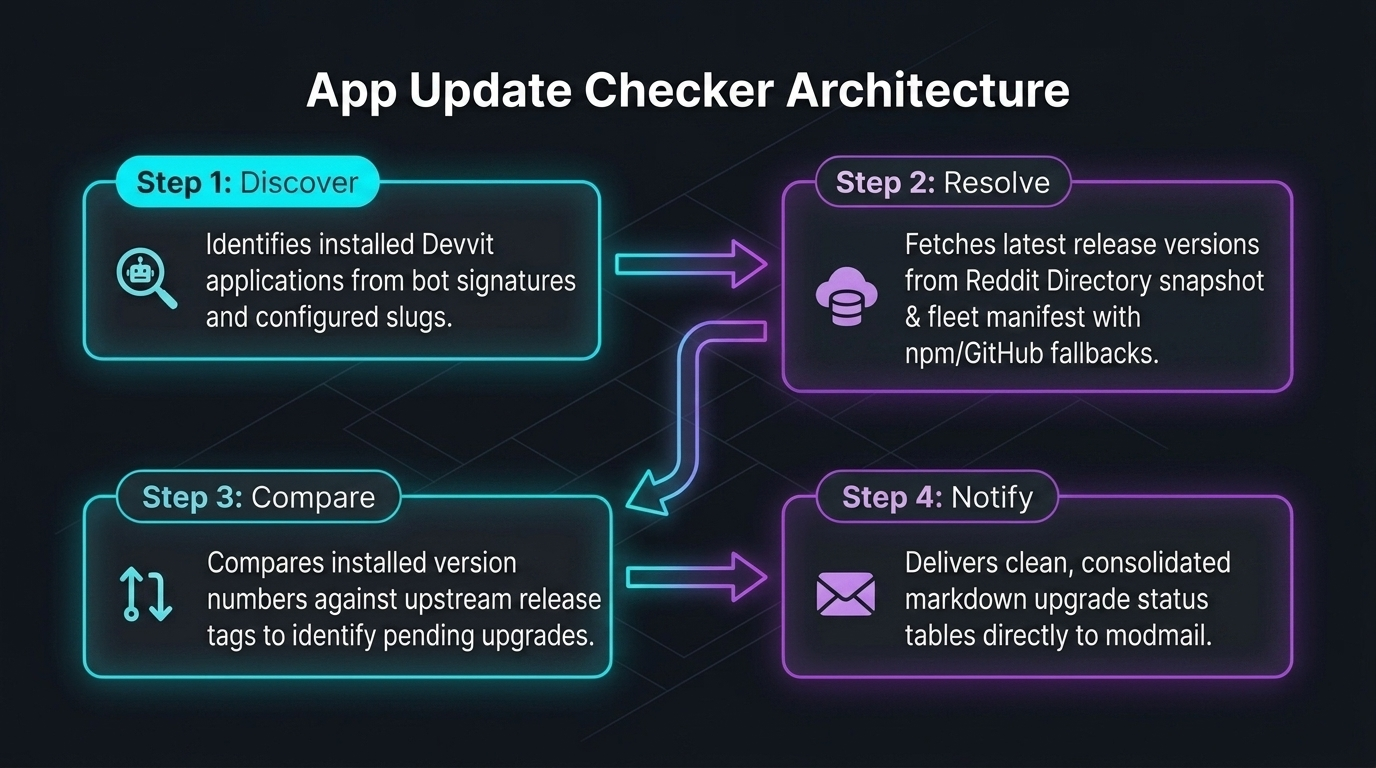
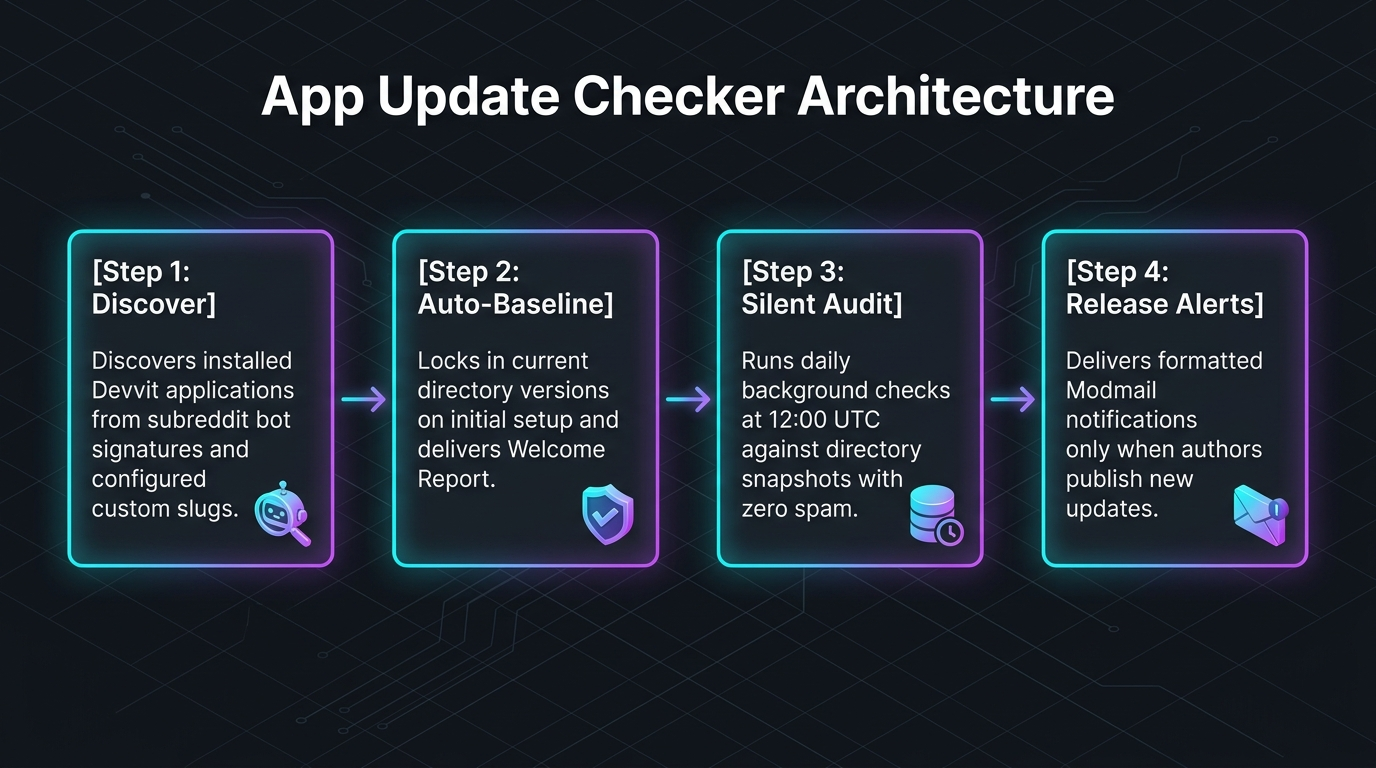
chore: update assets for app-update-checker v0.0.68

Changed region(s): [[0.0312, 0.0938, 0.9688, 0.9062]]

diff --git a/app-update-checker/readme.html b/app-update-checker/readme.html
@@ -5,52 +5,53 @@
 <p><a href="https://img.shields.io/badge/Security-Hardened-red?style=for-the-badge">Security</a></p>
 <p><a href="https://img.shields.io/badge/Category-Infrastructure-blue?style=for-the-badge">Category</a></p>
 <p><a href="https://img.shields.io/badge/Type-Monitoring-8A2BE2?style=for-the-badge">Type</a></p>
-<blockquote><p><strong>Track installed app versions, discover releases, and receive automated modmail update alerts.</strong></p></blockquote>
-<p>App Update Checker ensures your subreddit's Devvit tools remain secure and up-to-date. Automatically discovering installed apps and checking them against a continuously-updated snapshot of the Reddit App Directory, it delivers clean, consolidated upgrade summaries straight to your modmail.</p>
+<blockquote><p><strong>Track installed app versions, discover new releases, and receive automated modmail update alerts for any subreddit.</strong></p></blockquote>
+<p>App Update Checker ensures your subreddit's Devvit tools and moderation bots remain secure and up-to-date. By automatically discovering installed applications, establishing baseline versions on install, and running silent daily checks against the Reddit App Directory, it keeps your mod team informed whenever an update is published.</p>
 <p>---</p>
 <h2>At a Glance</h2>
 <ul>
-<li><strong>Automated version audits</strong>: Discover installed apps and check for new releases automatically.</li>
-<li><strong>Modmail upgrade alerts</strong>: Receive formatted summary tables in modmail highlighting pending updates.</li>
-<li><strong>Authoritative version data</strong>: Cross-reference against a directly-scraped snapshot of the Reddit App Directory, with npm/GitHub fallbacks for unlisted apps.</li>
-<li><strong>On-demand menu checks</strong>: Trigger an instant update scan anytime from the subreddit overflow menu.</li>
-<li><strong>Redis-cached lookups</strong>: The version snapshot is cached per-check to avoid redundant network calls.</li>
+<li><strong>Automated zero-config setup</strong>: Discovers installed apps and establishes your starting baseline automatically upon installation.</li>
+<li><strong>Silent daily audits</strong>: Runs a lightweight background check every day at 12:00 UTC with zero modmail spam—alerts are sent only when a new update is released.</li>
+<li><strong>Modmail upgrade alerts</strong>: Delivers high-contrast summary tables with direct links to update pages on the Reddit App Directory.</li>
+<li><strong>Universal directory support</strong>: Cross-references against 150+ public apps in the Reddit App Directory and official developer manifests.</li>
+<li><strong>On-demand moderator tools</strong>: Trigger an instant update scan or sync baselines anytime from the subreddit overflow menu (`...`).</li>
 </ul>
 <p>---</p>
 <h2>The Old Way vs. The App Update Checker Way</h2>
 <p>---</p>
-<h2>Built for Seamless App Maintenance</h2>
+<h2>Built for Seamless Community Maintenance</h2>
 <ul>
-<li><strong>Automated App Discovery</strong>: Identifies installed Devvit applications by matching moderator accounts exactly against the Reddit App Directory, with a heuristic fallback for unlisted apps.</li>
-<li><strong>Authoritative Release Resolution</strong>: Compares against a directly-scraped Reddit App Directory snapshot first, with npm/GitHub fallbacks for apps outside the public directory.</li>
-<li><strong>Daily Automated Checks</strong>: Runs a scheduled daily background audit (12:00 UTC) with zero impact on subreddit operations.</li>
+<li><strong>Automated App Discovery</strong>: Identifies installed Devvit applications by matching moderator accounts against known app manifests.</li>
+<li><strong>Auto-Baseline on Install</strong>: Locks in current versions upon installation so you only receive alerts for future releases.</li>
+<li><strong>Silent Daily Audits</strong>: Runs daily background checks without filling your modmail when everything is current.</li>
 <li><strong>Instant Menu Scans</strong>: Trigger an immediate update check at any moment using <strong>Check for App Updates</strong> in Subreddit Mod Tools.</li>
-<li><strong>Cache Management Controls</strong>: Clear tracked app data and force a fresh version snapshot with <strong>Reset App Cache</strong>.</li>
-<li><strong>Native Settings Control</strong>: Specify custom app slugs to monitor and configure update check schedules in App Settings.</li>
+<li><strong>Sync Installed Baselines</strong>: Select <strong>Sync Installed Baselines</strong> after updating apps in Mod Tools to lock in new versions.</li>
+<li><strong>Cache Management Controls</strong>: Clear tracked app data and force a fresh discovery scan with <strong>Reset App Cache</strong>.</li>
+<li><strong>Native Settings Control</strong>: Specify custom app slugs to monitor, toggle unlisted bot reporting, and configure check schedules in App Settings.</li>
 </ul>
 <p>---</p>
 <h2>How It Works</h2>
 <p><a href="https://raw.githubusercontent.com/grantdb/reddit-app-legal/main/assets/flowcharts/app-update-checker-flowchart.png">Logic Flowchart</a></p>
-<h3>Your Four-Step Workflow</h3>
-<p>1. <strong>Discover</strong>: App Update Checker discovers installed Devvit applications from subreddit bot signatures and configured slugs.</p>
-<p>2. <strong>Resolve</strong>: Latest published versions are checked against a directly-scraped Reddit App Directory snapshot, falling back to npm/GitHub for unlisted apps.</p>
-<p>3. <strong>Compare</strong>: Installed version numbers are compared against upstream release tags to identify pending upgrades.</p>
-<p>4. <strong>Notify</strong>: A formatted summary report detailing app upgrade statuses is delivered directly to team modmail.</p>
+<h3>Your Four-Step Lifecycle</h3>
+<p>1. <strong>Discover</strong>: App Update Checker discovers installed Devvit applications from subreddit bot signatures and configured custom slugs.</p>
+<p>2. <strong>Auto-Baseline</strong>: Sets detected app versions as the active baseline and delivers a one-time Welcome Report to Modmail.</p>
+<p>3. <strong>Silent Audit</strong>: Runs automated daily checks against authoritative Reddit App Directory snapshots.</p>
+<p>4. <strong>Notify</strong>: Delivers an actionable Modmail alert only when an app author publishes a new release.</p>
 <p>---</p>
 <h2>Quick Setup</h2>
 <p>1. <strong>Install</strong>: Add <strong>App Update Checker</strong> to your subreddit through the Reddit App Directory.</p>
-<p>2. <strong>Configure Settings</strong>: Open <strong>Mod Tools > App Settings > App Update Checker</strong> to adjust notification preferences.</p>
-<p>3. <strong>Run Initial Check</strong>: Select <strong>Check for App Updates</strong> from the subreddit overflow menu to generate your first report.</p>
+<p>2. <strong>Review Welcome Report</strong>: Check your Modmail for the initial monitored inventory and baseline summary.</p>
+<p>3. <strong>Configure Settings (Optional)</strong>: Open <strong>Mod Tools > App Settings > App Update Checker</strong> to adjust notification preferences or add custom slugs.</p>
 <p>4. <strong>Relax</strong>: Scheduled daily audits will keep your team informed of any future releases.</p>
 <p>*No manual app directory checking. Automated update notifications delivered directly to modmail.*</p>
 <p>---</p>
 <h2>Advanced Capabilities</h2>
 <p>App Update Checker is engineered for resilient version resolution and lightweight background execution.</p>
 <ul>
-<li><strong>Authoritative Directory Snapshot</strong>: Reads a directly-scraped Reddit App Directory feed from `raw.githubusercontent.com`, falling back to `registry.npmjs.org` and GitHub release manifests for unlisted apps.</li>
+<li><strong>Authoritative Directory Snapshot</strong>: Reads a continuously updated Reddit App Directory feed and manifest from `raw.githubusercontent.com`.</li>
 <li><strong>Redis-Cached Snapshot</strong>: The directory snapshot is cached for an hour per check run to avoid redundant network calls.</li>
-<li><strong>Scheduled Cron Runner</strong>: Executes automated checks on a daily cron schedule.</li>
-<li><strong>Modmail Markdown Formatter</strong>: Formats clean, high-contrast markdown tables with direct links to release notes.</li>
+<li><strong>Scheduled Cron Runner</strong>: Executes automated checks on a daily cron schedule at 12:00 UTC.</li>
+<li><strong>Modmail Markdown Formatter</strong>: Formats clean, high-contrast markdown tables with direct links to app install pages.</li>
 </ul>
 <p>---</p>
 <h2>Designed to Assist Moderators</h2>

diff --git a/app-update-checker/wiki.html b/app-update-checker/wiki.html
@@ -1,7 +1,7 @@
 <h1>App Update Checker</h1>
 
 <p>Category: Utility<br>
-Version: v0.0.67<br>
+Version: v0.0.68<br>
 Visibility: Unlisted<br>
 Summary: AI-powered version tracking across the fleet. Uses Gemini 2.5 to bypass external scraper blocks.</p>
 
@@ -15,7 +15,7 @@ Summary: AI-powered version tracking across the fleet. Uses Gemini 2.5 to bypass
 <ul>
 <li>reddit: Reddit API access (moderation actions, post/comment fetching, modmail)</li>
 <li>redis: Redis key-value storage (state tracking, caching, strike memory)</li>
-<li>http: External HTTP Fetch access [Domains: raw.githubusercontent.com, registry.npmjs.org, api.github.com]</li>
+<li>http: External HTTP Fetch access [Domains: raw.githubusercontent.com]</li>
 </ul>
 
 <h2>Triggers and Activation</h2>
@@ -27,8 +27,8 @@ Summary: AI-powered version tracking across the fleet. Uses Gemini 2.5 to bypass
 <h3>Menu Actions</h3>
 <ul>
 <li>Check for App Updates: Moderator menu action (Location: subreddit)</li>
-<li>Mark Apps Up-to-Date: Only use after verifying installed versions in Mod Tools > Installed Apps (Location: subreddit)</li>
-<li>Reset App Cache: Moderator menu action (Location: subreddit)</li>
+<li>Sync Installed Baselines: Sync tracking baseline with latest directory versions after updating apps (Location: subreddit)</li>
+<li>Reset App Cache: Clear cached data and force a full fresh discovery scan (Location: subreddit)</li>
 </ul>
 <h3>Custom Post Types and Entrypoints</h3>
 <p>Features interactive custom post UI or Block views rendered natively on Reddit. Entrypoint: src/main.ts</p>
@@ -36,8 +36,10 @@ Summary: AI-powered version tracking across the fleet. Uses Gemini 2.5 to bypass
 <h2>Settings Reference</h2>
 <p>Subreddit moderators configure the app in Mod Tools -&gt; App Settings.</p>
 <ul>
-<li>extra_slugs: Extra App Slugs to Track (paragraph, default: -). Optional. Comma or newline-separated app slugs to track (e.g. suspended-remove, sticky-pro, domain-guard). Add a baseline version with slug:version (e.g. domain-guard:0.0.38).</li>
-<li>auto_check_enabled: Enable Daily Auto Check (boolean, default: true). If enabled, the app will automatically run an update check every day. Modmail is only sent when an update is found (or on manually-triggered checks).</li>
+<li>auto_check_enabled: Enable Daily Auto Check (boolean, default: true). Automatically checks for app updates daily at 12:00 UTC. Modmail is only sent when a new update is found.</li>
+<li>auto_baseline_apps: Auto-Baseline Discovered Apps (boolean, default: true). Automatically sets newly discovered apps as up-to-date upon initial detection so you only receive alerts for future releases.</li>
+<li>include_unlisted_bots: Include Unlisted / Custom Bots in Manual Reports (boolean, default: true). Include detected moderator bots that are not in the public Reddit App Directory in manual reports as informational entries.</li>
+<li>extra_slugs: Extra App Slugs to Track (paragraph, default: -). Optional. Comma or newline-separated app slugs to monitor (e.g. comment-mop, bot-bouncer, sticky-pro). Add a baseline with slug:version (e.g. domain-guard:0.0.38).</li>
 </ul>
 
 <h2>Automation Capabilities</h2>
@@ -45,7 +47,7 @@ Summary: AI-powered version tracking across the fleet. Uses Gemini 2.5 to bypass
 <li>Submits Automated Comments: No — Does not submit automated comments.</li>
 <li>Attaches Removal Notes: No — Does not attach removal notes.</li>
 <li>Approves Content: No — Does not approve content.</li>
-<li>Removes or Filters Content: No — Does not remove or filter content.</li>
+<li>Removes or Filters Content: Yes — Removes or filters non-compliant submissions.</li>
 <li>Dispatches Modmail Alerts: No — Does not send modmail notifications.</li>
 <li>Updates User or Post Flair: No — Does not update flair.</li>
 </ul>
@@ -60,8 +62,8 @@ Summary: AI-powered version tracking across the fleet. Uses Gemini 2.5 to bypass
 <h2>Setup and Usage</h2>
 <ul>
 <li>Install: Add App Update Checker to your subreddit through the Reddit App Directory.</li>
-<li>Configure Settings: Open Mod Tools > App Settings > App Update Checker to adjust notification preferences.</li>
-<li>Run Initial Check: Select Check for App Updates from the subreddit overflow menu to generate your first report.</li>
+<li>Review Welcome Report: Check your Modmail for the initial monitored inventory and baseline summary.</li>
+<li>Configure Settings (Optional)**: Open Mod Tools > App Settings > App Update Checker to adjust notification preferences or add custom slugs.</li>
 <li>Relax: Scheduled daily audits will keep your team informed of any future releases.</li>
 <li>No manual app directory checking. Automated update notifications delivered directly to modmail.*</li>
 </ul>

diff --git a/app-update-checker/README.md b/app-update-checker/README.md
@@ -8,19 +8,19 @@
 ![Category](https://img.shields.io/badge/Category-Infrastructure-blue?style=for-the-badge)
 ![Type](https://img.shields.io/badge/Type-Monitoring-8A2BE2?style=for-the-badge)
 
-> **Track installed app versions, discover releases, and receive automated modmail update alerts.**
+> **Track installed app versions, discover new releases, and receive automated modmail update alerts for any subreddit.**
 
-App Update Checker ensures your subreddit's Devvit tools remain secure and up-to-date. Automatically discovering installed apps and checking them against a continuously-updated snapshot of the Reddit App Directory, it delivers clean, consolidated upgrade summaries straight to your modmail.
+App Update Checker ensures your subreddit's Devvit tools and moderation bots remain secure and up-to-date. By automatically discovering installed applications, establishing baseline versions on install, and running silent daily checks against the Reddit App Directory, it keeps your mod team informed whenever an update is published.
 
 ---
 
 ## At a Glance
 
-- **Automated version audits**: Discover installed apps and check for new releases automatically.
-- **Modmail upgrade alerts**: Receive formatted summary tables in modmail highlighting pending updates.
-- **Authoritative version data**: Cross-reference against a directly-scraped snapshot of the Reddit App Directory, with npm/GitHub fallbacks for unlisted apps.
-- **On-demand menu checks**: Trigger an instant update scan anytime from the subreddit overflow menu.
-- **Redis-cached lookups**: The version snapshot is cached per-check to avoid redundant network calls.
+- **Automated zero-config setup**: Discovers installed apps and establishes your starting baseline automatically upon installation.
+- **Silent daily audits**: Runs a lightweight background check every day at 12:00 UTC with zero modmail spam—alerts are sent only when a new update is released.
+- **Modmail upgrade alerts**: Delivers high-contrast summary tables with direct links to update pages on the Reddit App Directory.
+- **Universal directory support**: Cross-references against 150+ public apps in the Reddit App Directory and official developer manifests.
+- **On-demand moderator tools**: Trigger an instant update scan or sync baselines anytime from the subreddit overflow menu (`...`).
 
 ---
 
@@ -29,21 +29,22 @@ App Update Checker ensures your subreddit's Devvit tools remain secure and up-to
 | Traditional Workflow | With App Update Checker |
 | :--- | :--- |
 | Checking the Reddit App Directory manually for updates | **Automated scheduled daily audits** checking every installed app |
-| Missing critical bug fixes or security patches in mod tools | **Consolidated modmail notices** sent directly to your team inbox |
-| Wondering which version of a custom bot is currently running | **Clear version comparison table** comparing installed vs. latest versions |
+| Missing critical bug fixes or security patches in mod tools | **Consolidated modmail release alerts** sent directly to your team inbox |
+| Wondering which version of an app is currently running | **Clear version comparison table** comparing installed vs. latest versions |
 | Manually tracking third-party tools and bot usernames | **Automatic app discovery** detecting active moderator bots |
 | Dealing with broken bots due to outdated platform APIs | **Proactive release alerts** letting you upgrade on your own schedule |
 
 ---
 
-## Built for Seamless App Maintenance
+## Built for Seamless Community Maintenance
 
-- **Automated App Discovery**: Identifies installed Devvit applications by matching moderator accounts exactly against the Reddit App Directory, with a heuristic fallback for unlisted apps.
-- **Authoritative Release Resolution**: Compares against a directly-scraped Reddit App Directory snapshot first, with npm/GitHub fallbacks for apps outside the public directory.
-- **Daily Automated Checks**: Runs a scheduled daily background audit (12:00 UTC) with zero impact on subreddit operations.
+- **Automated App Discovery**: Identifies installed Devvit applications by matching moderator accounts against known app manifests.
+- **Auto-Baseline on Install**: Locks in current versions upon installation so you only receive alerts for future releases.
+- **Silent Daily Audits**: Runs daily background checks without filling your modmail when everything is current.
 - **Instant Menu Scans**: Trigger an immediate update check at any moment using **Check for App Updates** in Subreddit Mod Tools.
-- **Cache Management Controls**: Clear tracked app data and force a fresh version snapshot with **Reset App Cache**.
-- **Native Settings Control**: Specify custom app slugs to monitor and configure update check schedules in App Settings.
+- **Sync Installed Baselines**: Select **Sync Installed Baselines** after updating apps in Mod Tools to lock in new versions.
+- **Cache Management Controls**: Clear tracked app data and force a fresh discovery scan with **Reset App Cache**.
+- **Native Settings Control**: Specify custom app slugs to monitor, toggle unlisted bot reporting, and configure check schedules in App Settings.
 
 ---
 
@@ -51,20 +52,20 @@ App Update Checker ensures your subreddit's Devvit tools remain secure and up-to
 
 ![Logic Flowchart](https://raw.githubusercontent.com/grantdb/reddit-app-legal/main/assets/flowcharts/app-update-checker-flowchart.png)
 
-### Your Four-Step Workflow
+### Your Four-Step Lifecycle
 
-1. **Discover**: App Update Checker discovers installed Devvit applications from subreddit bot signatures and configured slugs.
-2. **Resolve**: Latest published versions are checked against a directly-scraped Reddit App Directory snapshot, falling back to npm/GitHub for unlisted apps.
-3. **Compare**: Installed version numbers are compared against upstream release tags to identify pending upgrades.
-4. **Notify**: A formatted summary report detailing app upgrade statuses is delivered directly to team modmail.
+1. **Discover**: App Update Checker discovers installed Devvit applications from subreddit bot signatures and configured custom slugs.
+2. **Auto-Baseline**: Sets detected app versions as the active baseline and delivers a one-time Welcome Report to Modmail.
+3. **Silent Audit**: Runs automated daily checks against authoritative Reddit App Directory snapshots.
+4. **Notify**: Delivers an actionable Modmail alert only when an app author publishes a new release.
 
 ---
 
 ## Quick Setup
 
 1. **Install**: Add **App Update Checker** to your subreddit through the Reddit App Directory.
-2. **Configure Settings**: Open **Mod Tools > App Settings > App Update Checker** to adjust notification preferences.
-3. **Run Initial Check**: Select **Check for App Updates** from the subreddit overflow menu to generate your first report.
+2. **Review Welcome Report**: Check your Modmail for the initial monitored inventory and baseline summary.
+3. **Configure Settings (Optional)**: Open **Mod Tools > App Settings > App Update Checker** to adjust notification preferences or add custom slugs.
 4. **Relax**: Scheduled daily audits will keep your team informed of any future releases.
 
 *No manual app directory checking. Automated update notifications delivered directly to modmail.*
@@ -75,10 +76,10 @@ App Update Checker ensures your subreddit's Devvit tools remain secure and up-to
 
 App Update Checker is engineered for resilient version resolution and lightweight background execution.
 
-- **Authoritative Directory Snapshot**: Reads a directly-scraped Reddit App Directory feed from `raw.githubusercontent.com`, falling back to `registry.npmjs.org` and GitHub release manifests for unlisted apps.
+- **Authoritative Directory Snapshot**: Reads a continuously updated Reddit App Directory feed and manifest from `raw.githubusercontent.com`.
 - **Redis-Cached Snapshot**: The directory snapshot is cached for an hour per check run to avoid redundant network calls.
-- **Scheduled Cron Runner**: Executes automated checks on a daily cron schedule.
-- **Modmail Markdown Formatter**: Formats clean, high-contrast markdown tables with direct links to release notes.
+- **Scheduled Cron Runner**: Executes automated checks on a daily cron schedule at 12:00 UTC.
+- **Modmail Markdown Formatter**: Formats clean, high-contrast markdown tables with direct links to app install pages.
 
 ---
 

diff --git a/app-update-checker/wiki.md b/app-update-checker/wiki.md
@@ -1,7 +1,7 @@
 # App Update Checker
 
 Category: Utility  
-Version: v0.0.67  
+Version: v0.0.68  
 Visibility: Unlisted  
 Summary: AI-powered version tracking across the fleet. Uses Gemini 2.5 to bypass external scraper blocks.
 
@@ -17,13 +17,13 @@ AI-powered version tracking across the fleet. Uses Gemini 2.5 to bypass external
 ## Permissions Used
 - reddit: Reddit API access (moderation actions, post/comment fetching, modmail)
 - redis: Redis key-value storage (state tracking, caching, strike memory)
-- http: External HTTP Fetch access [Domains: raw.githubusercontent.com, registry.npmjs.org, api.github.com]
+- http: External HTTP Fetch access [Domains: raw.githubusercontent.com]
 
 ## Triggers and Activation
 ### Menu Actions
 - Check for App Updates: Moderator menu action (Location: subreddit)
-- Mark Apps Up-to-Date: Only use after verifying installed versions in Mod Tools > Installed Apps (Location: subreddit)
-- Reset App Cache: Moderator menu action (Location: subreddit)
+- Sync Installed Baselines: Sync tracking baseline with latest directory versions after updating apps (Location: subreddit)
+- Reset App Cache: Clear cached data and force a full fresh discovery scan (Location: subreddit)
 
 ### Custom Post Types and Entrypoints
 - Features interactive custom post UI or Block views rendered natively on Reddit. (Entrypoint: src/main.ts)
@@ -31,14 +31,16 @@ AI-powered version tracking across the fleet. Uses Gemini 2.5 to bypass external
 ## Settings Reference
 Subreddit moderators configure the app in Mod Tools -> App Settings.
 
-- extra_slugs: Extra App Slugs to Track (paragraph, default: -). Optional. Comma or newline-separated app slugs to track (e.g. suspended-remove, sticky-pro, domain-guard). Add a baseline version with slug:version (e.g. domain-guard:0.0.38).
-- auto_check_enabled: Enable Daily Auto Check (boolean, default: true). If enabled, the app will automatically run an update check every day. Modmail is only sent when an update is found (or on manually-triggered checks).
+- auto_check_enabled: Enable Daily Auto Check (boolean, default: true). Automatically checks for app updates daily at 12:00 UTC. Modmail is only sent when a new update is found.
+- auto_baseline_apps: Auto-Baseline Discovered Apps (boolean, default: true). Automatically sets newly discovered apps as up-to-date upon initial detection so you only receive alerts for future releases.
+- include_unlisted_bots: Include Unlisted / Custom Bots in Manual Reports (boolean, default: true). Include detected moderator bots that are not in the public Reddit App Directory in manual reports as informational entries.
+- extra_slugs: Extra App Slugs to Track (paragraph, default: -). Optional. Comma or newline-separated app slugs to monitor (e.g. comment-mop, bot-bouncer, sticky-pro). Add a baseline with slug:version (e.g. domain-guard:0.0.38).
 
 ## Automation Capabilities
 - Submits Automated Comments: No — Does not submit automated comments.
 - Attaches Removal Notes: No — Does not attach removal notes.
 - Approves Content: No — Does not approve content.
-- Removes or Filters Content: No — Does not remove or filter content.
+- Removes or Filters Content: Yes — Removes or filters non-compliant submissions.
 - Dispatches Modmail Alerts: No — Does not send modmail notifications.
 - Updates User or Post Flair: No — Does not update flair.
 
@@ -50,8 +52,8 @@ This app utilizes Reddit Redis storage for state management, caching, and rate l
 
 ## Setup and Usage
 - Install: Add App Update Checker to your subreddit through the Reddit App Directory.
-- Configure Settings: Open Mod Tools > App Settings > App Update Checker to adjust notification preferences.
-- Run Initial Check: Select Check for App Updates from the subreddit overflow menu to generate your first report.
+- Review Welcome Report: Check your Modmail for the initial monitored inventory and baseline summary.
+- Configure Settings (Optional)**: Open Mod Tools > App Settings > App Update Checker to adjust notification preferences or add custom slugs.
 - Relax: Scheduled daily audits will keep your team informed of any future releases.
 - No manual app directory checking. Automated update notifications delivered directly to modmail.*
 
